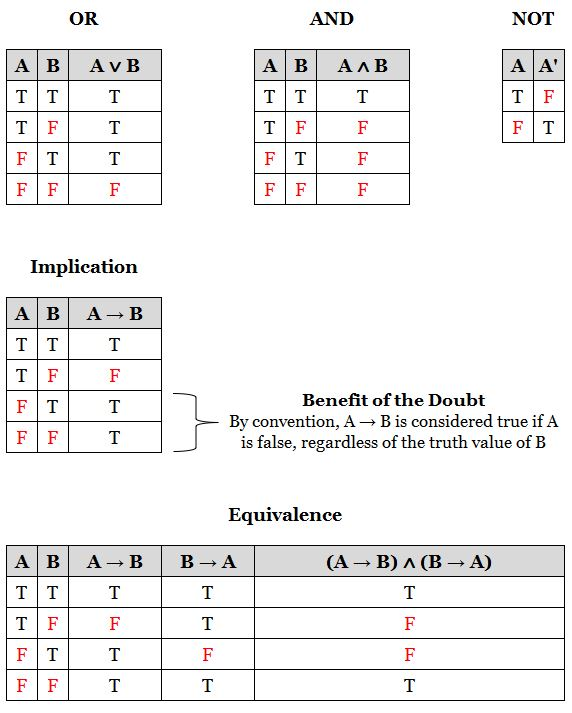
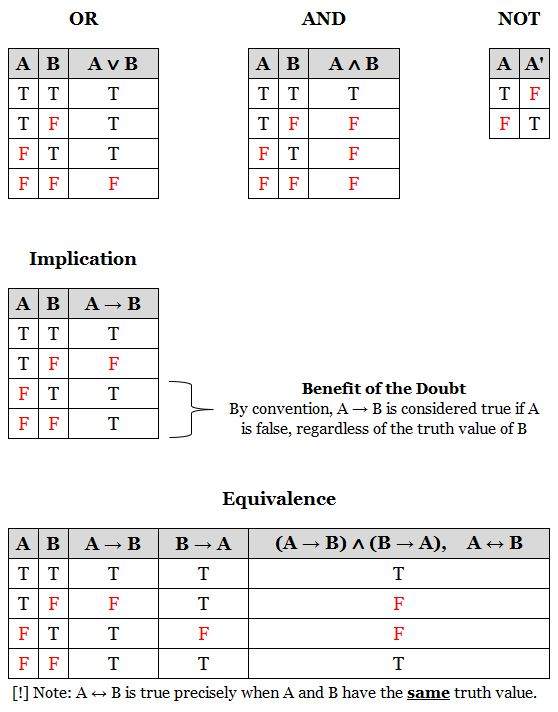
Update 'statements-symbolic-representation-and-tautologies', 'propositional-logic' notes

diff --git a/_posts/discrete-structures/2021-08-23-statements-symbolic-representation-and-tautologies.md b/_posts/discrete-structures/2021-08-23-statements-symbolic-representation-and-tautologies.md
@@ -80,6 +80,10 @@ In a wff with a number of connectives, the connective to be applied last is the
 4. →
 5. ↔
 
+If there are several logical connectives of the same precedence, they will be
+examined left to right.
+
+* e.g., A∨B∧B is equivalent to (A∨B)∧B
 
 ## Truth Table of Compound Statements
 

diff --git a/_posts/discrete-structures/2021-08-28-propositional-logic.md b/_posts/discrete-structures/2021-08-28-propositional-logic.md
@@ -14,6 +14,9 @@ propositional calculus*.
 
 [!] Note: *wff* stands for *well-formed-formula*
 
+[!] Note: A, B, C stand for single statement letters; P, Q, R, S stand for
+*wff*s.
+
 
 ## Valid Arguments
 
